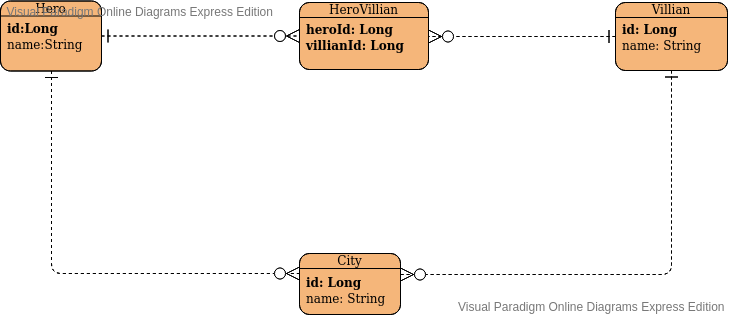
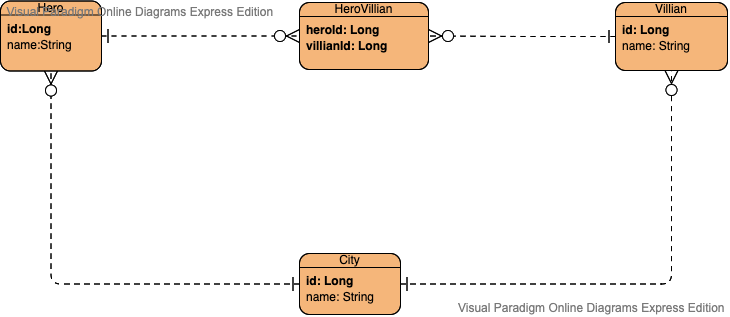
chg: many to one - hero city

diff --git a/src/test/java/de/claudioaltamura/springboot/jpa/hero/HeroIntegrationTest.java b/src/test/java/de/claudioaltamura/springboot/jpa/hero/HeroIntegrationTest.java
@@ -15,6 +15,7 @@ import org.junit.jupiter.api.Test;
 import org.springframework.beans.factory.annotation.Autowired;
 import org.springframework.boot.test.autoconfigure.orm.jpa.DataJpaTest;
 import org.springframework.boot.test.autoconfigure.orm.jpa.TestEntityManager;
+import org.springframework.test.context.ActiveProfiles;
 
 @DataJpaTest
 class HeroIntegrationTest {
@@ -71,6 +72,23 @@ class HeroIntegrationTest {
 
     assertThat(heroes).isNotNull();
     assertThat(heroes).isEmpty();
+  }
+
+  @Test
+  void multipleHeroes() {
+    Hero batman = new Hero("Batman", metropolis);
+    Hero robin = new Hero("robin", metropolis);
+
+    heroRepository.save(batman);
+    heroRepository.save(robin);
+
+    assertThat(heroRepository.count()).isEqualTo(2L);
+
+    heroRepository.delete(robin);
+
+    Hero found = heroRepository.findById(batman.getId()).get();
+
+    assertThat(found.getCity().getName()).isEqualTo("Metropolis");
   }
 
 }

diff --git a/src/main/java/de/claudioaltamura/springboot/jpa/hero/entities/Hero.java b/src/main/java/de/claudioaltamura/springboot/jpa/hero/entities/Hero.java
@@ -21,8 +21,7 @@ public class Hero {
       inverseJoinColumns = @JoinColumn(name = "villain_id"))
   private Set<Villain> antagonists = new HashSet<>();
 
-  @OneToOne(cascade = CascadeType.ALL, optional = false)
-  @JoinColumn(name = "city_id")
+  @ManyToOne(cascade = CascadeType.ALL, optional = false)
   private City city;
 
   public Hero(String name, City city) {

diff --git a/src/main/java/de/claudioaltamura/springboot/jpa/hero/entities/Villain.java b/src/main/java/de/claudioaltamura/springboot/jpa/hero/entities/Villain.java
@@ -17,7 +17,7 @@ public class Villain {
   @ManyToMany(mappedBy = "antagonists")
   private Set<Hero> heroes = new HashSet<>();
 
-  @OneToOne(cascade = CascadeType.ALL, optional = false)
+  @ManyToOne(cascade = CascadeType.ALL, optional = false)
   @JoinColumn(name = "city_id")
   private City city;
 

diff --git a/src/main/java/de/claudioaltamura/springboot/jpa/hero/entities/City.java b/src/main/java/de/claudioaltamura/springboot/jpa/hero/entities/City.java
@@ -16,4 +16,14 @@ public class City {
         this.name = name;
     }
 
+    public String getName() {
+        return name;
+    }
+
+    @Override
+    public String toString() {
+        return String.format(
+                "City[id=%d, name='%s']",
+                id, name);
+    }
 }
